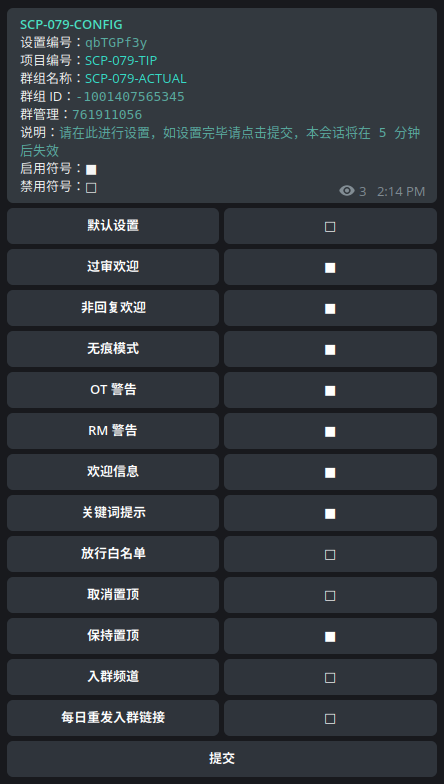
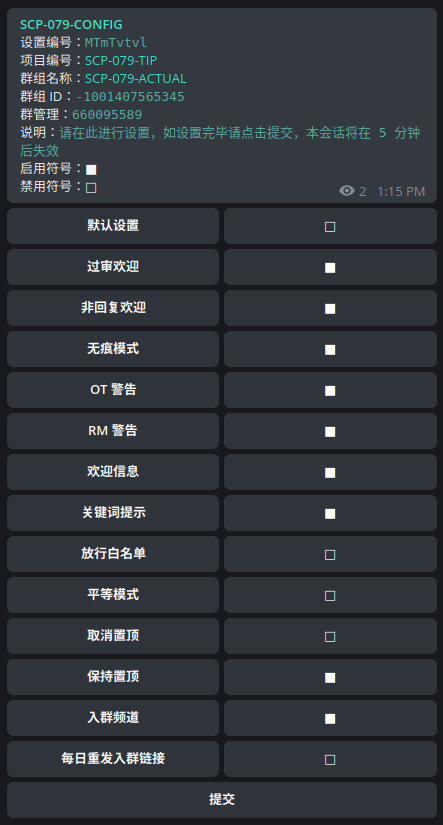
update TIP

Changed region(s): [[0.0, 0.0, 0.9977, 0.9796]]

diff --git a/content/bots/tip.md b/content/bots/tip.md
@@ -58,6 +58,8 @@ type: docs
 
 **放行白名单：** 开启后，如果群组设置的关键词触发行为包括删除、移除、禁言、封禁等任意一个影响用户消息和权限的功能，将不对项目中全局白名单的用户触发此关键词。默认关闭。
 
+**平等模式：** 机器人默认对管理员的关键词触发是区别对待且有触发条件的：要求全匹配，而且是管理员用全匹配关键词回复某个人才会触发——管理员的关键词会被自动删除，被回复的人会被回复预设的消息。而开启「平等模式」后，机器人对管理员的关键触发没有特殊条件，并且会尝试执行所有设置的关键词触发行为。
+
 **取消置顶：** 开启后，将取消频道在群组中的置顶。按钮关闭后，将不再取消。
 
 **保持置顶：** 单纯使用按钮开启无效果，需在群内使用命令保持某条消息为置顶，避免被频道置顶替代。按钮关闭后，将不再保持。
@@ -84,6 +86,7 @@ type: docs
 - `welcome`：入群欢迎
 - `keyword`：关键词提示
 - `white`：放行白名单
+- `equal`：平等模式
 - `cancel`：取消置顶
 - `hold`：保持置顶
 - `channel`：入群频道
@@ -305,15 +308,17 @@ type: docs
 
 **其他可选设置区域：** 此部分为选填项，如果不填写、不设置，则会采取默认配置。但不可跳行配置，即：如果**只想配置第二行**，则第一行同样不可忽略，不过此时可以忽略第三行、第四行。
 
-- 第一行，设置关键词的匹配模式，默认为 `include`，如需指定多个模式，请将模式代号以空格分隔，可选的模式有：
+- 第一行，设置关键词的匹配模式，默认为 `include`，并且大小写不敏感，如需指定多个模式，请将模式代号以空格分隔，可选的模式有：
     - `include`：包含匹配。
     - `exact`：全匹配。
     - `case`：大小写敏感。
+    - `caption`：仅匹配媒体附文
     - `name`：仅匹配名称（用户名、消息转发来源名）。
     - `join`：仅匹配用户入群消息。
     - `forward`：仅匹配被转发的消息。
     - `pure`：去除名称中的干扰字符。
-    - 请注意，`include` 和 `exact` 模式互斥，`join` 和 `forward` 模式互斥。
+    - `regex`：使用正则匹配模式，语法请参照 Google RE2 的 [Wiki](https://github.com/google/re2/wiki/Syntax)。
+    - 请注意，`include`，`exact`，和 `regex` 模式互斥；`regex` 和 `case` 模式互斥；`caption` 与 `name` / `join` 模式互斥；`join` 和 `forward` 模式互斥。
 - 第二行，设置关键词触发后应该执行的操作，默认为 `reply`，如需指定多个操作，请将操作代号以空格分隔，可选的操作有：
     - `reply`：回复预设内容。
     - `delete`：删除触发的消息。
@@ -364,6 +369,8 @@ type: docs
 这是因为机器人默认管理员已经熟知本群所设置的关键词，欲发送关键词回复消息时，应是有主动意图的触发。
 
 在此情况下，机器人将回收管理员的消息，并将预设内容回复给管理员所回复的对象。
+
+您可以通过开启「平等模式」来取消对管理员的关键词触发条件的约束。
 {{< /hint >}}
 
 ---
